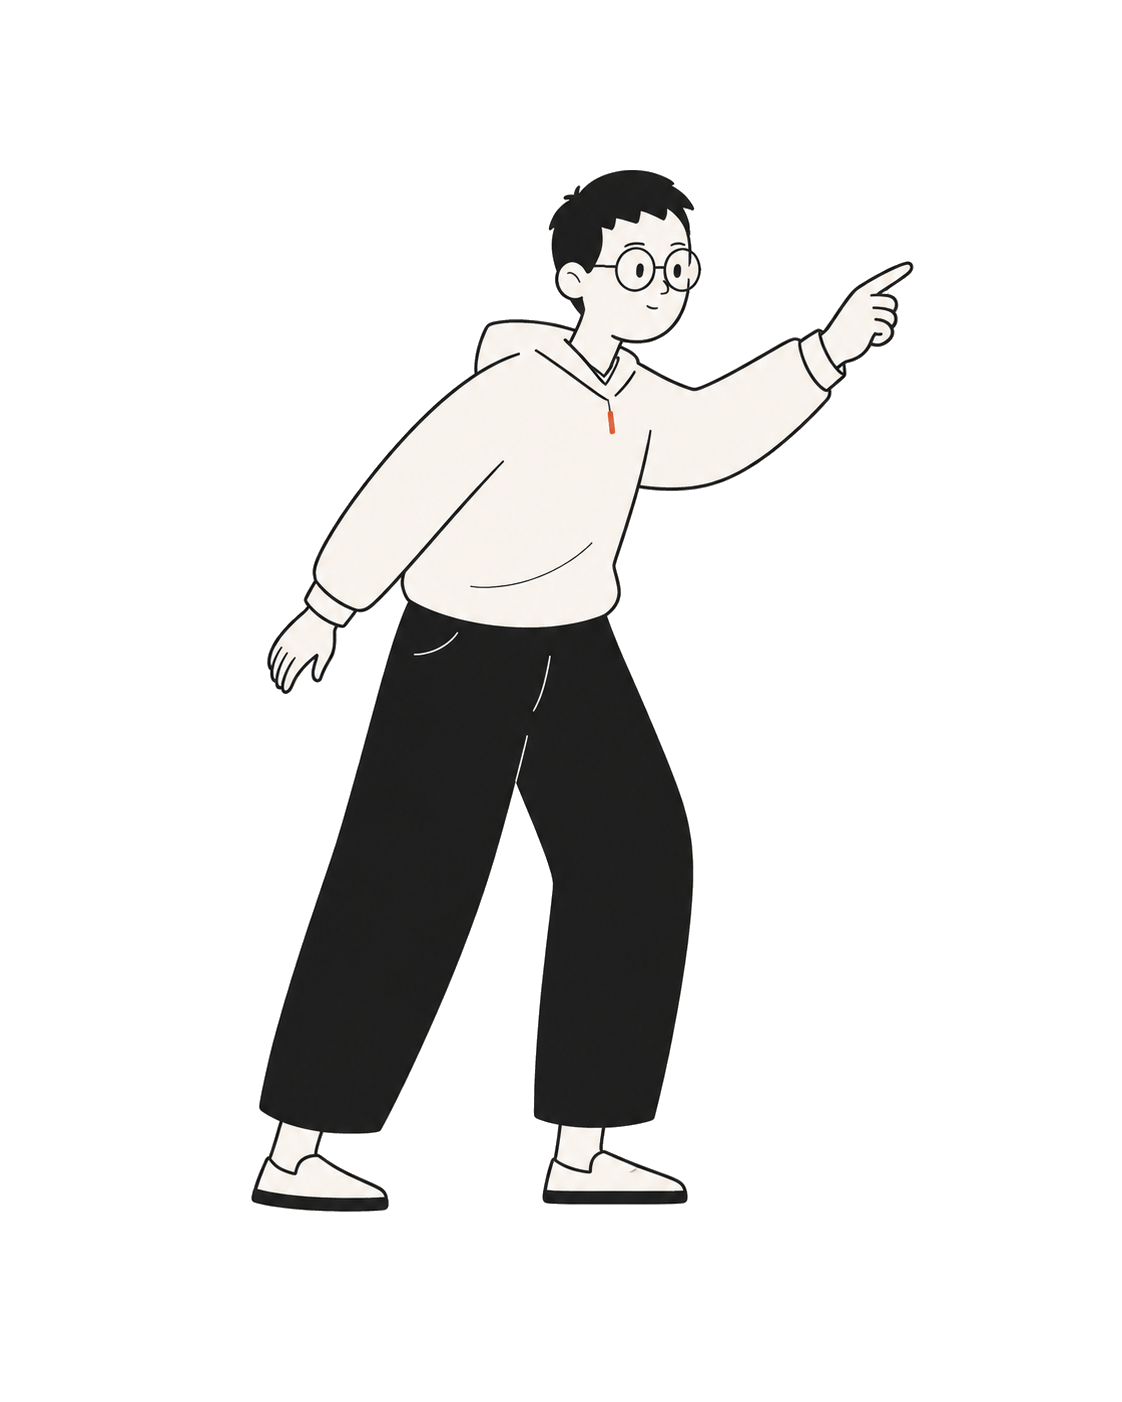
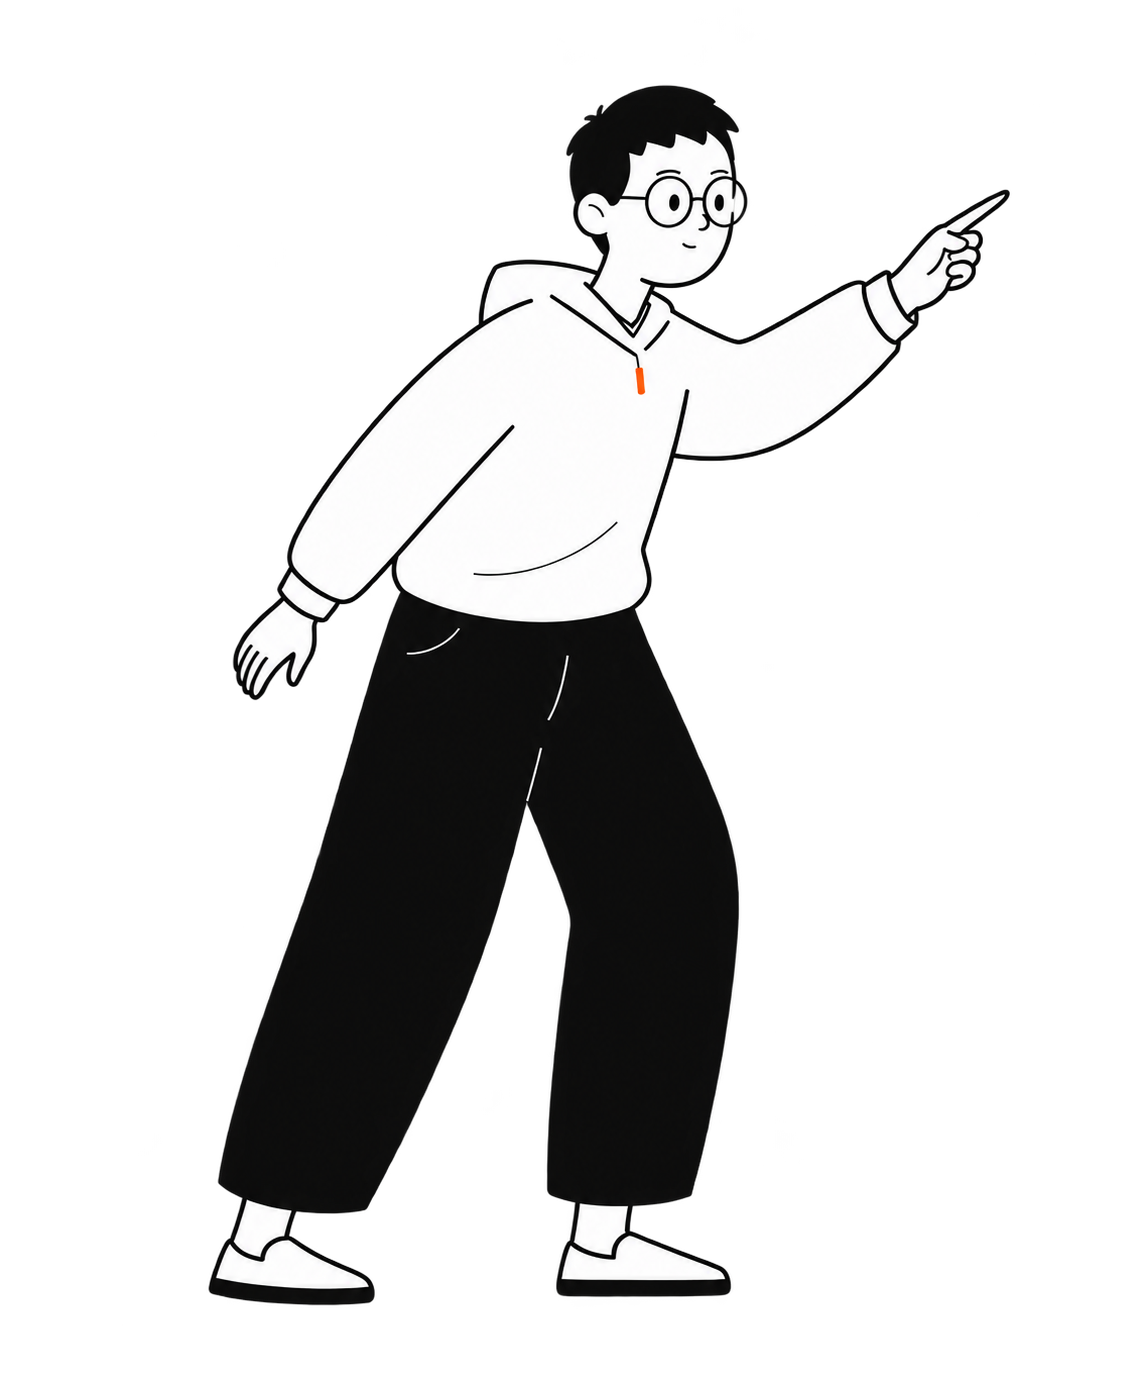
fix: align corrected inspector asset

Changed region(s): [[0.1872, 0.0611, 0.7175, 0.9476], [0.6239, 0.1223, 0.8734, 0.3057]]

diff --git a/src/components/rebrand-visuals.tsx b/src/components/rebrand-visuals.tsx
@@ -243,7 +243,7 @@ function HomeInspectorCharacter({ className }: { className?: string }) {
   return (
     <div
       className={cn(
-        'pointer-events-none aspect-[0.62] overflow-hidden select-none',
+        'pointer-events-none aspect-[0.62] overflow-hidden select-none sm:overflow-visible',
         className,
       )}
       data-hero-character
@@ -251,9 +251,9 @@ function HomeInspectorCharacter({ className }: { className?: string }) {
       <img
         src="/illustrations/twe-inspector-male-hero.png"
         alt="TWE Inspector pointing toward the highlighted Sign in button"
-        className="absolute left-1/2 top-1/2 h-[115%] w-auto max-w-none -translate-x-1/2 -translate-y-1/2 object-contain"
-        width={1122}
-        height={1402}
+        className="absolute left-1/2 top-1/2 h-full w-auto max-w-none -translate-x-1/2 -translate-y-1/2 object-contain"
+        width={1145}
+        height={1374}
         loading="eager"
         fetchPriority="high"
         draggable={false}
